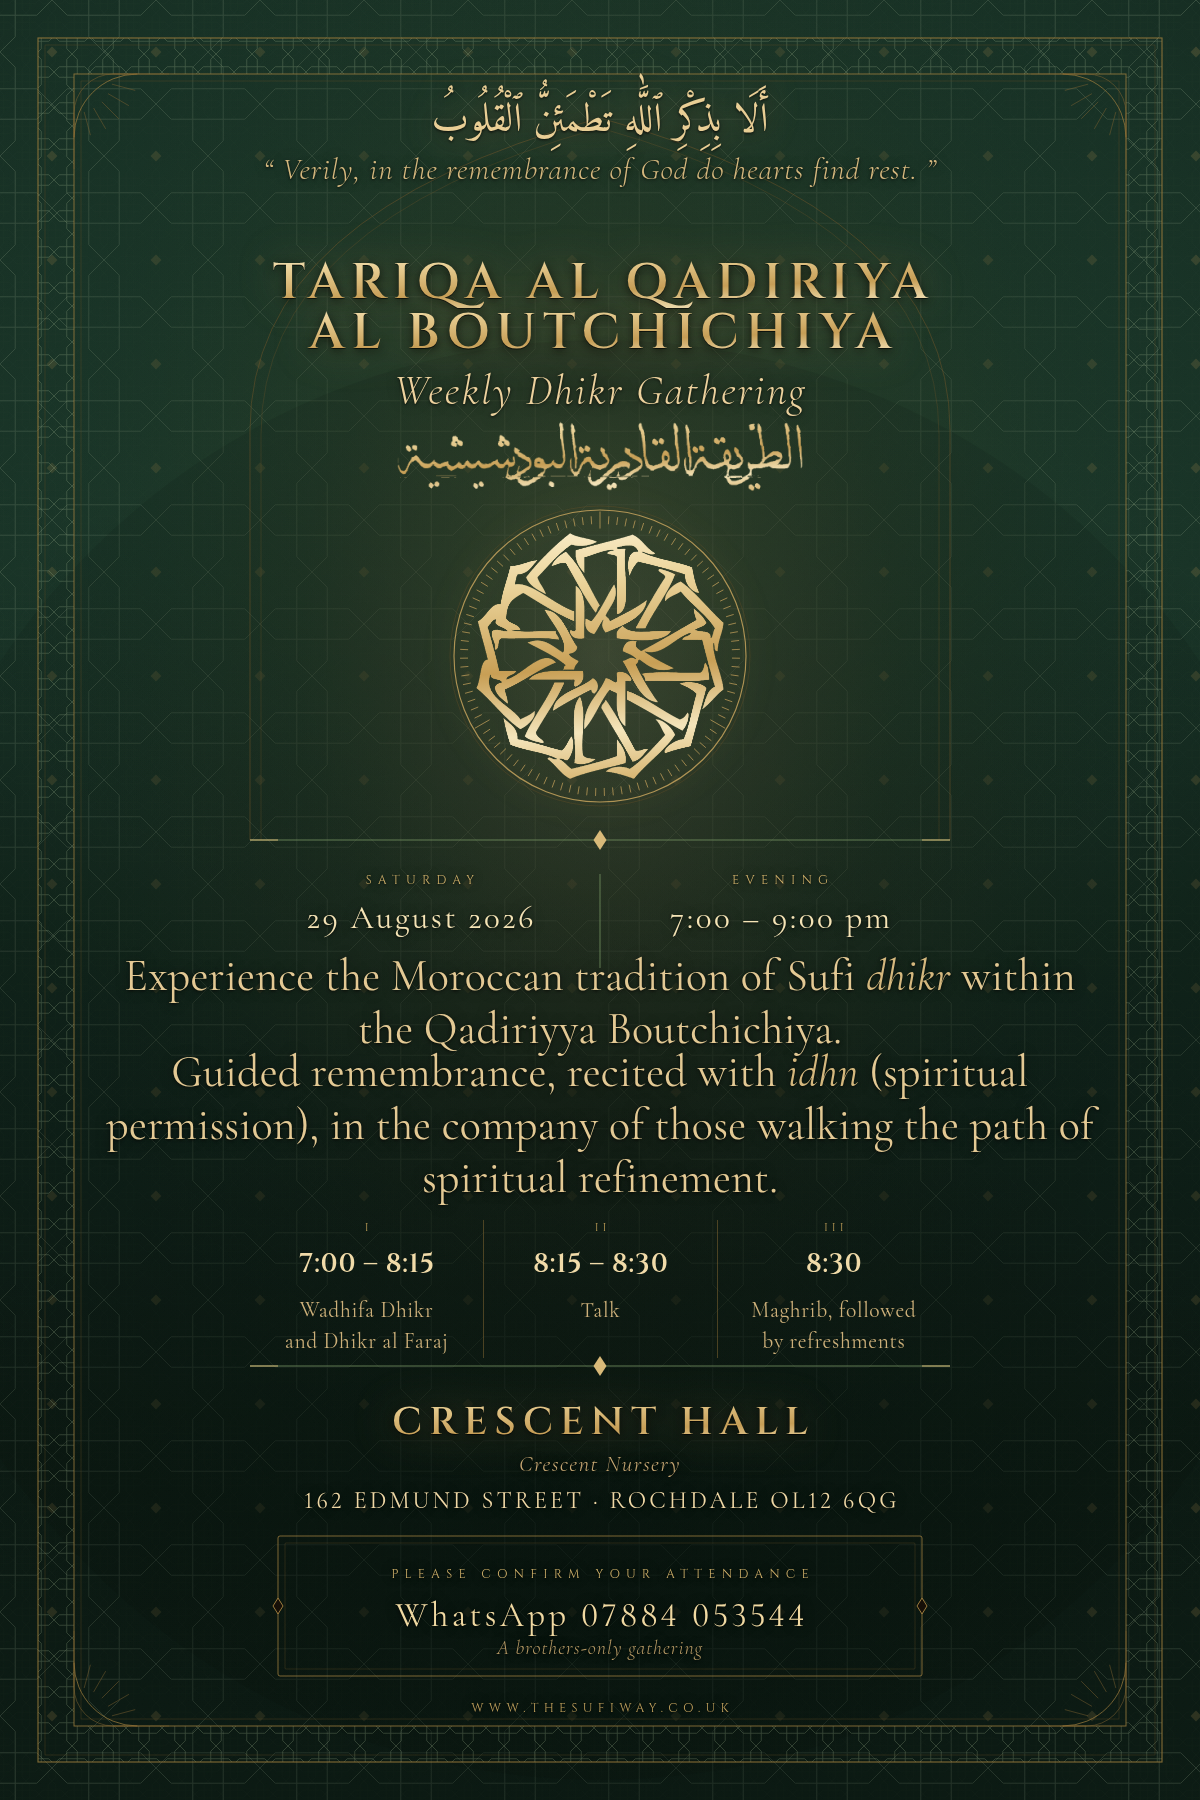
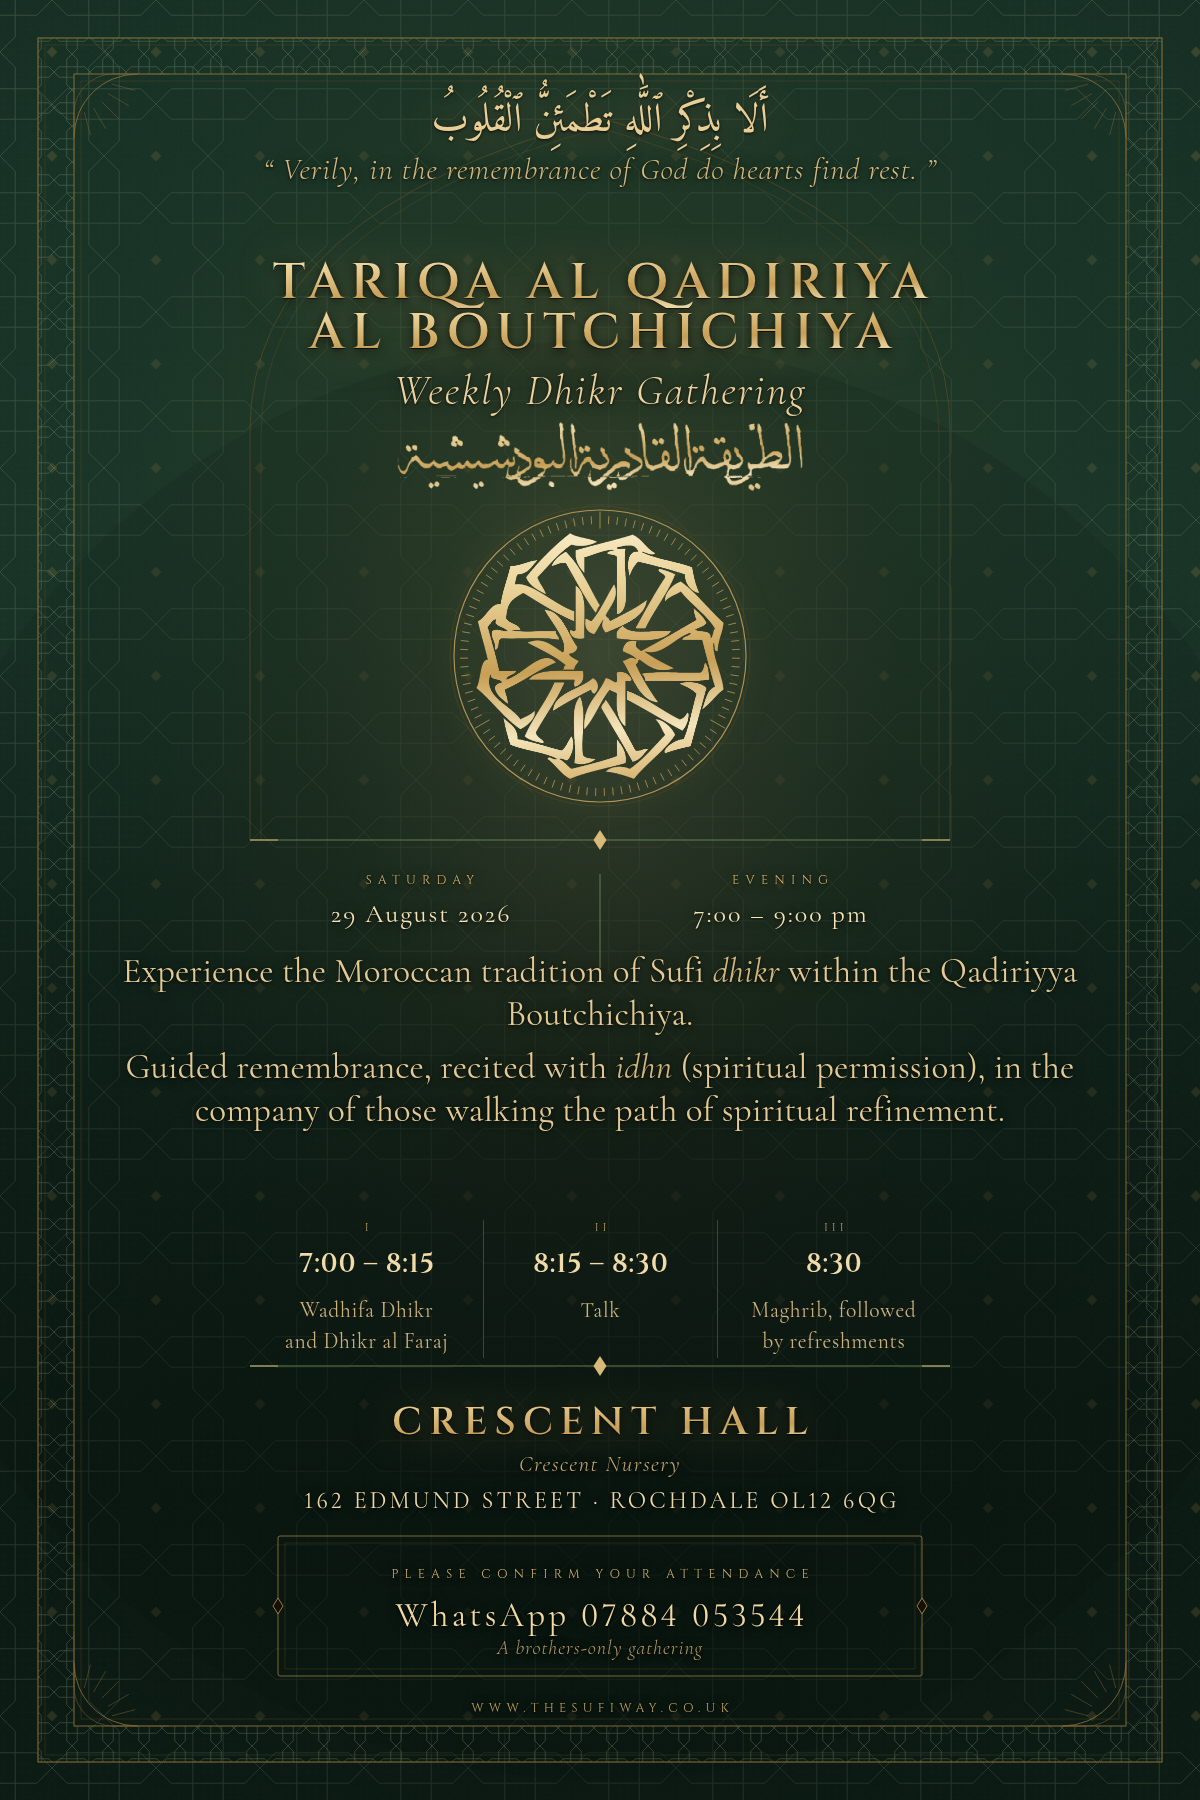
Shrink the date/time values and description text ~20%
Both had grown a step too large relative to the rest of the type scale.
Date/time: 33px -> 26px. Description: 44px -> 35px. Positions are
untouched — both were already sized generously for the larger text, so
shrinking only opens up more breathing room before the programme row,
nothing needed to move.

Claude-Session: https://claude.ai/code/session_01W3RXmfEcLks2fUKiCDKANu

Changed region(s): [[0.0925, 0.4978, 0.8942, 0.6844]]

diff --git a/design/weekly-gathering/final/final.py b/design/weekly-gathering/final/final.py
@@ -137,9 +137,9 @@ html,body{{background:#000}}
   letter-spacing:.045em;color:{pal['t2']}}}
 .lab{{font-family:Cinzel,serif;font-weight:400;font-size:12.5px;letter-spacing:.5em;
   text-indent:.5em;color:{pal['lab']}}}
-.val{{font-family:Cormorant,serif;font-weight:400;font-size:33px;letter-spacing:.075em;
+.val{{font-family:Cormorant,serif;font-weight:400;font-size:26px;letter-spacing:.075em;
   text-indent:.075em;color:{pal['val']}}}
-.body{{font-family:Cormorant,serif;font-weight:400;font-size:44px;line-height:1.2;
+.body{{font-family:Cormorant,serif;font-weight:400;font-size:35px;line-height:1.24;
   letter-spacing:.005em;color:{pal['body']}}}
 .body em{{font-style:italic;color:{pal['gloss']}}}
 .pt{{font-variant-numeric:lining-nums;font-family:Cinzel,serif;font-weight:600;font-size:27px;letter-spacing:.03em;
